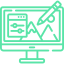
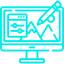
att2

diff --git a/style.css b/style.css
@@ -24,7 +24,7 @@ body {
 }
 .logo h1{
     font-family: 'Lobster', cursive;
-    color:#5ae4a8;
+    color:#00eceb;
     font-size: 34px;
 }
 .menu{
@@ -33,7 +33,7 @@ body {
     padding: 20px
 }
 .menu a{
-    color:#5ae4a8; 
+    color:#00eceb; 
     text-decoration: none;
     font-size: 20px;
     padding: 20px 16px;
@@ -41,11 +41,11 @@ body {
 }
 .menu a:hover{
  color: #1a2e35;  
- border-top: 4px solid #5ae4a8 ;
+ border-top: 4px solid #00eceb ;
  
 }
 #botao{
-    background-color: #5ae4a8;
+    background-color: #00eceb;
     padding: 10px 25px;
     color:white;
     border-radius: 5px;
@@ -72,7 +72,7 @@ color: white;
 }
 .headline img{
     width: 190px;
-    border: 3px solid #5ae4a8;
+    border: 3px solid #00eceb;
     border-radius: 50%;
 }
 .headline p{
@@ -84,12 +84,13 @@ color: white;
 
 .botao-contato{
  display: inline-block;
-background: #5ae4a8 ;
+background: #00eceb ;
   border-radius: 5px;
   text-decoration: none;
   color: white;
   text-transform:uppercase ;
   padding: 20px;
+  font-weight: bold;
 }
 
 .botao-contato:hover{
@@ -127,7 +128,7 @@ section h2{
     width: 30%;
     padding: 20px;
     margin: 1%;
-    border: 1px solid #5ae4a8;
+    border: 1px solid #00eceb;
     border-radius: 10px;
     cursor: pointer;
 }
@@ -139,7 +140,7 @@ section h2{
 footer{
     margin-top: 100px;
     height: 160px;
-    background-image: linear-gradient(180deg,#5ae4a8,#5ae9a9,#5ae8a9);
+    background-image: linear-gradient(180deg,#00eceb,#00eceb,#00eceb);
     text-align: center;
     border-top:3px solid #1a2e35;
 }
